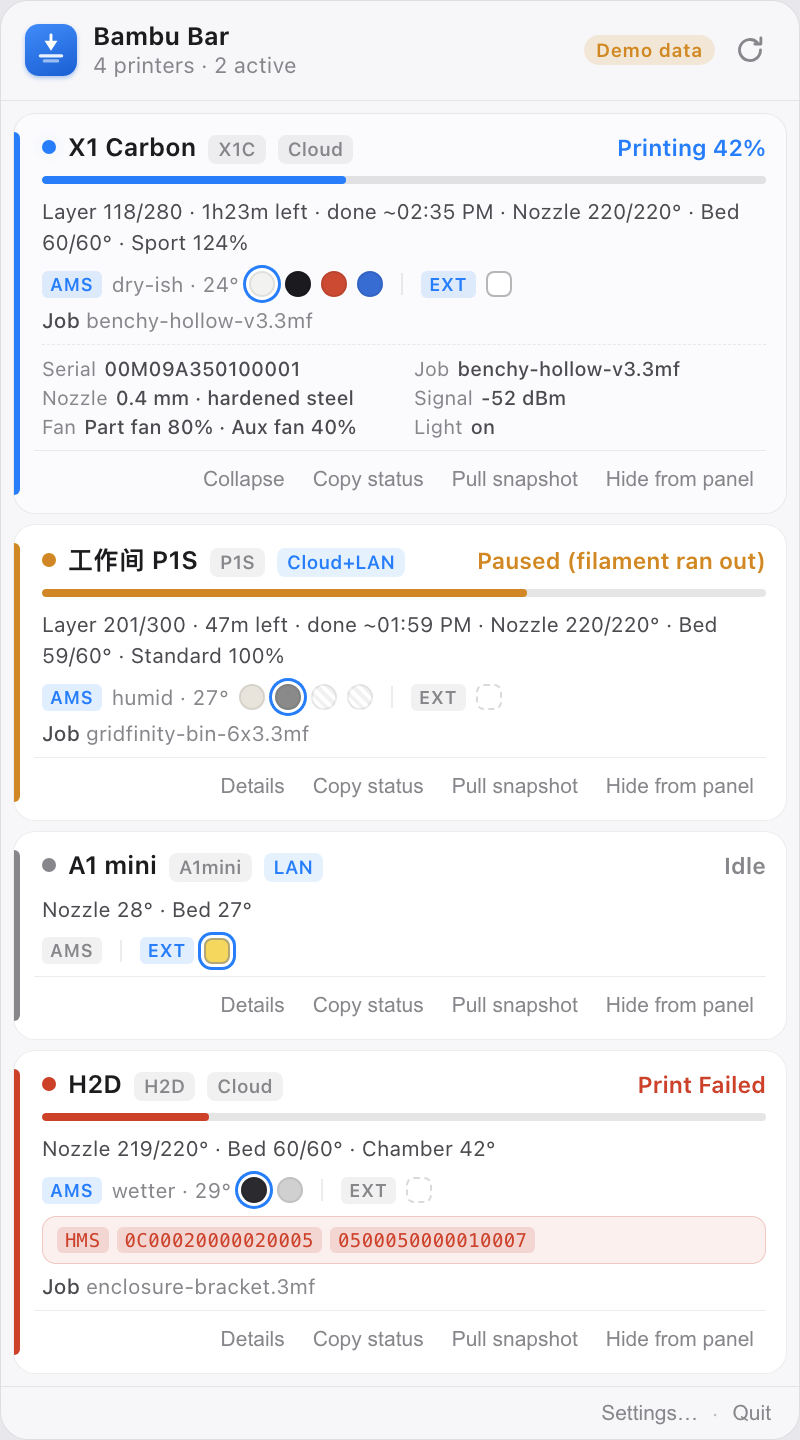
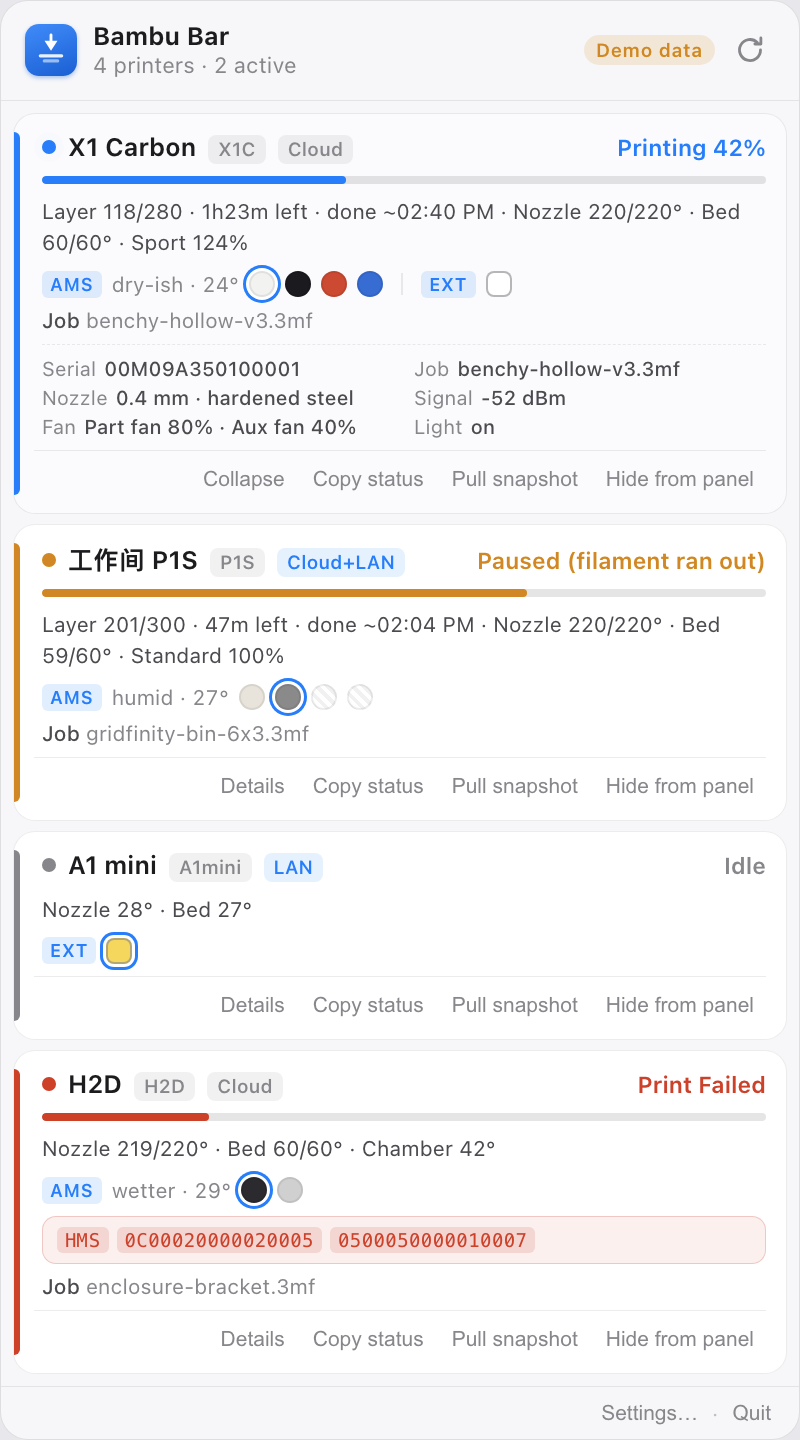
面板：没接 AMS/外置时整段不渲染，去掉灰色标签与空心占位

diff --git a/src/popover/popover.js b/src/popover/popover.js
@@ -237,55 +237,60 @@ function updateCard(v) {
   q.meta.textContent = parts.join('  ·  ');
   show(q.meta, parts.length > 0);
 
-  // AMS / 外置料盘：两个标签各管一段，有则亮、无则灰。
+  // AMS / 外置料盘：各成一段，**没接的那段整段不显示**。
   // 早前只有一个「AMS」标签，所有料盘槽都挂在它后面 —— 无 AMS 的机器（A1 mini 这类
   // 只接外挂料盘）于是被画成「AMS：一个白圈」，读起来像 AMS 里装着一卷料。
-  // 现在按来源分标签：AMS 亮起=这台的 AMS 有槽位；外置亮起=接着外挂料盘。
+  // 现在按来源分标签；而「没有」这件事本身不需要占位置：灰标签、空心占位都只会让
+  // 一行里多出与这台机器无关的元素，直接不画。
   q.ams.replaceChildren();
   const f = v.filament || {};
   const units = f.units || [];
   const amsSlots = units.reduce((n, u) => n + u.slots.length, 0);
+  const hasAms = units.length > 0;   // 有 AMS 单元就算（槽位可能全空，但模块是在的）
   const hasExt = !!f.external;
-  if (amsSlots || hasExt) {
-    const amsTag = el('span', 'ams-tag' + (amsSlots ? ' on' : ''), t('card.ams'));
-    amsTag.title = amsSlots ? t('card.slots', { n: amsSlots }) : t('card.amsOff');
-    q.ams.append(amsTag);
+  if (hasAms || hasExt) {
+    if (hasAms) {
+      const amsTag = el('span', 'ams-tag', t('card.ams'));
+      amsTag.title = amsSlots ? t('card.slots', { n: amsSlots }) : t('card.ams');
+      q.ams.append(amsTag);
 
-    // AMS 自身的温湿度紧跟在「AMS」标签后面 —— 它是 AMS 单元上报的读数，
-    // 既不是打印机腔温（那条走 chamber_temper / device.ctc，按机型门控），
-    // 也不是外置料盘的属性。放在行末（外置段之后）会被读成「外置 29°」。
-    const info = [];
-    const u0 = units[0];
-    if (u0 && u0.humidityText) info.push(t('hum.' + u0.humidityText));
-    if (u0 && u0.temp != null) info.push(`${Math.round(u0.temp)}°`);
-    if (info.length) {
-      const meta = el('span', 'ams-meta', info.join(' · '));
-      meta.title = t('card.amsEnv');
-      q.ams.append(meta);
+      // AMS 自身的温湿度紧跟在「AMS」标签后面 —— 它是 AMS 单元上报的读数，
+      // 既不是打印机腔温（那条走 chamber_temper / device.ctc，按机型门控），
+      // 也不是外置料盘的属性。放在行末会被读成「外置 29°」。
+      const info = [];
+      const u0 = units[0];
+      if (u0.humidityText) info.push(t('hum.' + u0.humidityText));
+      if (u0.temp != null) info.push(`${Math.round(u0.temp)}°`);
+      if (info.length) {
+        const meta = el('span', 'ams-meta', info.join(' · '));
+        meta.title = t('card.amsEnv');
+        q.ams.append(meta);
+      }
+
+      units.forEach((u, ui) => {
+        if (ui > 0) q.ams.append(el('span', 'ams-sep'));
+        for (const s of u.slots) {
+          const d = el('span', 'slot' + (s.color ? '' : ' unknown') + (s.active ? ' active' : ''));
+          if (s.color) d.style.setProperty('--c', s.color);
+          d.title = [s.type, s.remain >= 0 ? `${s.remain}%` : null].filter(Boolean).join(' · ') || '—';
+          q.ams.append(d);
+        }
+      });
     }
 
-    units.forEach((u, ui) => {
-      if (ui > 0) q.ams.append(el('span', 'ams-sep'));
-      for (const s of u.slots) {
-        const d = el('span', 'slot' + (s.color ? '' : ' unknown') + (s.active ? ' active' : ''));
-        if (s.color) d.style.setProperty('--c', s.color);
-        d.title = [s.type, s.remain >= 0 ? `${s.remain}%` : null].filter(Boolean).join(' · ') || '—';
-        q.ams.append(d);
-      }
-    });
-
-    q.ams.append(el('span', 'ams-sep'));
-    const extTag = el('span', 'ams-tag' + (hasExt ? ' on' : ''), t('card.ext'));
-    extTag.title = hasExt ? t('card.amsExt') : t('card.extOff');
-    q.ams.append(extTag);
-    // 没接外挂料盘时留一个空心虚框占位：标签后面空着会像是渲染漏了，
-    // 也顺带把同一行的两段对齐，四台机器横着扫的时候位置一致。
-    const extCls = 'slot ext'
-      + (hasExt ? (f.external.color ? '' : ' unknown') + (f.external.active ? ' active' : '') : ' none');
-    const d = el('span', extCls);
-    if (hasExt && f.external.color) d.style.setProperty('--c', f.external.color);
-    d.title = hasExt ? t('card.amsExt') : t('card.extOff');
-    q.ams.append(d);
+    if (hasExt) {
+      // 分隔符只在两段都在的时候画；单独一段没必要和自己分开
+      if (hasAms) q.ams.append(el('span', 'ams-sep'));
+      const extTag = el('span', 'ams-tag', t('card.ext'));
+      extTag.title = t('card.amsExt');
+      q.ams.append(extTag);
+      const d = el('span', 'slot ext'
+        + (f.external.color ? '' : ' unknown')
+        + (f.external.active ? ' active' : ''));
+      if (f.external.color) d.style.setProperty('--c', f.external.color);
+      d.title = t('card.amsExt');
+      q.ams.append(d);
+    }
   }
   show(q.ams, q.ams.childElementCount > 0);
 

diff --git a/src/popover/style.css b/src/popover/style.css
@@ -272,18 +272,14 @@ body {
   font-size: 10.5px; color: var(--muted);
   flex-wrap: wrap;
 }
-/* 模块标签（AMS / 外置）：默认灰 = 这台没接这个模块，.on 才是「有料、亮起」。
-   灰在这里不是故障色（不加红），只是「没有」；亮起用主色，和面板其它强调同一套。 */
+/* 耗材来源标签（AMS / 外置）：只在真的接了这个来源时才渲染，
+   所以一律用强调色；没有的那段整段不出现，不做灰色占位。 */
 .ams-tag {
   font-size: 9px; font-weight: 600; letter-spacing: .3px;
   padding: 1.5px 4px; border-radius: 3px;
-  background: var(--chip); color: var(--muted);
-  transition: background .12s, color .12s;
-  flex: 0 0 auto;
-}
-.ams-tag.on {
   background: color-mix(in srgb, var(--c-printing) 13%, transparent);
   color: var(--c-printing);
+  flex: 0 0 auto;
 }
 .slot {
   width: 13px; height: 13px; border-radius: 50%;
@@ -298,17 +294,11 @@ body {
 .slot.active {
   box-shadow: 0 0 0 1.5px var(--card), 0 0 0 3px var(--c-printing);
 }
-/* 外置料盘：形状（方）已足够和 AMS 的圆点区分，边框就用实线；
-   虚线只留给「没接外置」的占位，别让「白料」看起来像个空槽。 */
+/* 外置料盘：形状（方）已足够和 AMS 的圆点区分，边框用实线 ——
+   以前这里靠虚线表示「没接」，现在没接就不渲染，方框恒表示「有料」。 */
 .slot.ext {
   border-radius: 4px;
   border: 1px solid color-mix(in srgb, var(--muted) 60%, transparent);
-}
-/* 没接外挂料盘的占位：只留一段半透明虚框轮廓 */
-.slot.ext.none {
-  background: transparent;
-  border-style: dashed;
-  opacity: .5;
 }
 /* 段内分隔（AMS 多单元之间、AMS 段与外置段之间）。
    两段之间那道要更宽一点：AMS 段里既有料点又有温湿度，边界不拉开容易读成同一串。 */

diff --git a/scripts/gen-xhs.js b/scripts/gen-xhs.js
@@ -360,7 +360,7 @@ pages.push({
       <div class="anno" style="flex:1;display:flex;flex-direction:column;justify-content:center;gap:26px;padding:6px 0">
         <div class="a"><span class="dot"></span><span class="txt"><b>面板高度跟着机器数走</b><br>一台一小条，四台四张卡；超出屏幕内部滚动，页脚始终可见</span></div>
         <div class="a"><span class="dot" style="background:#f5a524"></span><span class="txt"><b>颜色按状态取</b><br>蓝=打印中 琥珀=暂停 红=失败 绿=完成 灰=空闲</span></div>
-        <div class="a"><span class="dot" style="background:#17a673"></span><span class="txt"><b>耗材是第二套颜色</b><br>AMS 与外置各带一个标签：有料亮起、没接置灰；出料槽加蓝环</span></div>
+        <div class="a"><span class="dot" style="background:#17a673"></span><span class="txt"><b>耗材是第二套颜色</b><br>AMS 与外置各带标签，没接的那段直接不出现；出料槽加蓝环</span></div>
         <div class="a"><span class="dot" style="background:#e5484d"></span><span class="txt"><b>错误给的是官方口径</b><br>HMS 码 + 失败原因长句，不是「出错了」三个字</span></div>
         <div class="a"><span class="dot" style="background:#7c4dff"></span><span class="txt"><b>菜单栏直接显示进度</b><br>有机器在打印时显示平均百分比，有失败显示「!」</span></div>
       </div>

diff --git a/src/config/ui-strings.js b/src/config/ui-strings.js
@@ -44,8 +44,6 @@ const UI = {
     'card.ext': '外置',
     'card.amsExt': '外置耗材',
     'card.amsEnv': 'AMS 内部温湿度',
-    'card.amsOff': '未接 AMS',
-    'card.extOff': '未接外置耗材',
     'card.dry': '干燥',
     'card.slots': '{n} 槽',
     'card.hms': 'HMS',
@@ -205,8 +203,6 @@ const UI = {
     'card.ext': 'EXT',
     'card.amsExt': 'External spool',
     'card.amsEnv': 'AMS internal temp / humidity',
-    'card.amsOff': 'No AMS',
-    'card.extOff': 'No external spool',
     'card.dry': 'dry',
     'card.slots': '{n} slots',
     'card.hms': 'HMS',

diff --git a/README.md b/README.md
@@ -31,7 +31,7 @@
 | 状态 | 打印中 / 准备中（含 78 种 `stg_cur` 阶段精确文案）/ 换料中 / 暂停（缺料、堵头、温控异常、首层异常、舱门…）/ 完成 / 失败（按官方 HMS 码表归到「断料 / 堵头 / 温度 / 机械 / 校准 / 打印板 / 喷嘴 / AMS」大类）/ 离线 / 登录失效 |
 | 任务 | 文件名（`subtask_name` / `gcode_file`）、进度百分比、当前层 / 总层、剩余时间、**按本机时区算出的预计完成时刻**（跨自然日标 `+1`、`+2`） |
 | 温度 | 喷嘴（当前 / 目标）、热床（当前 / 目标）；腔温**只在带腔温控制器的机型上显示**（H2C / H2D / H2D Pro / H2S / X1E / X2D），其余机型整行不显示 |
-| 耗材 | 当前耗材颜色（双喷头按 `extruder.snow` 定位主喷头）、AMS 各槽颜色 + 材料 + 余量（悬停查看）、外置耗材单列（`AMS` / `外置` 两个标签各自亮起或置灰）、AMS 内部温湿度（`ams.ams[].humidity` / `.temp`，**不是**打印机腔温） |
+| 耗材 | 当前耗材颜色（双喷头按 `extruder.snow` 定位主喷头）、AMS 各槽颜色 + 材料 + 余量（悬停查看）、外置耗材单列（`AMS` / `外置` 两个标签，没接的那段不显示）、AMS 内部温湿度（`ams.ams[].humidity` / `.temp`，**不是**打印机腔温） |
 | 机器 | 速度档（静音 / 标准 / 运动 / 狂暴 + 倍率）、WiFi 信号、喷嘴直径与材质、风扇（模型 / 辅助 / 腔体）、腔灯、舱门 |
 | 错误 | HMS 码（16 位十六进制，悬停显示官方文案）、`fail_reason` 与官方原因长句 |
 
@@ -71,16 +71,17 @@
 | 有颜色 | 实心圆点，直接设 `--c` |
 | `alpha = 00` | 斜纹灰点（`.slot.unknown`）—— 真机空槽报 `00000000`，若取前 6 位会被误当成黑料 |
 | 当前出料槽 | 外加一圈蓝色双环（`.slot.active`） |
-| 外挂料盘 | 圆点画成方形实线框（`.slot.ext`），与 AMS 槽区分；没接时只剩半透明虚框占位 |
+| 外挂料盘 | 圆点画成方形实线框（`.slot.ext`），与 AMS 槽区分 |
 
-耗材这一行分两段，各带一个标签：`AMS` 和 `外置`。标签的状态就是这台机器的配置 ——
-**有料亮起（`.ams-tag.on`，主色淡底）、没接置灰**。AMS 的温湿度（`偏干 · 24°`）紧跟在
-`AMS` 标签后面，留在 AMS 段里 —— 它是 AMS 单元自带传感器的读数（`ams.ams[].humidity` /
-`.temp`），既不是打印机腔温，也不属于外置料盘；早前画在行末，被读成「外置 24°」。
-之所以要两个标签：A1 mini 这类只挂
-外挂料盘、不带 AMS 的机器，最早的版本把料点挂在唯一的「AMS」标签后面，读起来像
-「AMS 里装着一卷白料」。机器没接外挂时标签后面留一个空心虚框（`.slot.ext.none`）占位，
-四台机器横着扫的时候两段位置一致。
+耗材这一行分两段，各带一个标签：`AMS` 和 `外置`。**没接的那段整段不渲染** ——
+标签只在真有这个来源时出现（`.ams-tag`，主色淡底），不存在「灰色占位」状态：
+A1 mini 只挂外挂料盘，就只画 `外置 ▢`；接了 AMS 没接外挂，就只画 `AMS … ● ● ● ●`。
+分隔符也只在两段都在时才画。
+
+AMS 的温湿度（`偏干 · 24°`）紧跟在 `AMS` 标签后面，留在 AMS 段里 —— 它是 AMS 单元自带
+传感器的读数（`ams.ams[].humidity` / `.temp`），既不是打印机腔温，也不属于外置料盘；
+早前画在行末，被读成「外置 24°」。之所以要两个标签：A1 mini 这类只挂外挂料盘、不带 AMS
+的机器，最早的版本把料点挂在唯一的「AMS」标签后面，读起来像「AMS 里装着一卷白料」。
 
 打印中进度条的填充色也会换成当前耗材色；但料太亮（`luma ≥ 0.82`，比如白料）时回退到状态蓝，否则白条在白底上看不见（`src/popover/popover.js:224-230`）。
 
@@ -284,7 +285,7 @@ Built on top of [YingyiDai/bambu-buddy](https://github.com/YingyiDai/bambu-buddy
 
 **Colours** are keyed to *status*, not to the printer: a printer changes state and the whole card changes colour, while two printers in the same state share it. Six semantic colours, one set for light and one for dark (`src/popover/style.css:22-26` / `46-50`): printing `#0a7cff` / `#4c9dff`, paused `#d98300` / `#ffb340`, failed `#d92d20` / `#ff6369`, finished `#1f9d4d` / `#4ac26b`, idle `#86868b` / `#9b9ba2`, offline `#b4b4b9` / `#6a6a72`. `statusClassFromStateKey()` (`src/core/live-telemetry.js:16-27`) folds all 78 `stg_cur` stages into those six; its `default` branch means every recognised-but-unlisted stage counts as printing, so preparing and changing filament get no hue of their own — keeping the palette at six hues is what lets an outlier jump out while scanning. The chosen colour lands in the CSS variable `--st`, shared by four places: the 3px bar down the left of the card, the dot beside the title (pulsing while printing), the status text on the right, and the progress-bar fill.
 
-Filament swatches are a second, independent colour source, reported by the printer as `tray_color` in `RRGGBBAA` rather than defined by the app. `alpha = 00` means "no colour" and renders as a hatched grey dot — real printers report `00000000` for an empty slot, so reading only the first six digits would show it as black filament. The row is split into an `AMS` segment and an `EXT` (external spool) segment, each with its own label: lit in the accent colour when that source has filament, grey when the machine does not have it. Two labels rather than one because an A1 mini with only an external spool used to render that spool behind the single `AMS` label, which read as "a roll loaded in the AMS". The currently extruding slot gets a blue double ring, the external spool is drawn as a square with a solid outline (a faint dashed outline when nothing is connected, so the two segments stay aligned across cards and white filament never looks like an empty slot), and while printing the progress bar takes the filament colour too, falling back to the status blue when the material is too bright to read against the track (`luma ≥ 0.82`, e.g. white).
+Filament swatches are a second, independent colour source, reported by the printer as `tray_color` in `RRGGBBAA` rather than defined by the app. `alpha = 00` means "no colour" and renders as a hatched grey dot — real printers report `00000000` for an empty slot, so reading only the first six digits would show it as black filament. The row is split into an `AMS` segment and an `EXT` (external spool) segment, each with its own label; a segment the machine does not have is simply not rendered (no greyed-out placeholder, and the divider only appears when both segments exist). Two labels rather than one because an A1 mini with only an external spool used to render that spool behind the single `AMS` label, which read as "a roll loaded in the AMS". The currently extruding slot gets a blue double ring, the external spool is drawn as a square with a solid outline (shape alone keeps it distinct from the round AMS slots, and the solid outline keeps white filament from looking like an empty slot), and while printing the progress bar takes the filament colour too, falling back to the status blue when the material is too bright to read against the track (`luma ≥ 0.82`, e.g. white).
 
 **Appearance** lives in Settings → General (follow system / light / dark) and applies instantly without a restart: the setting only writes `nativeTheme.themeSource`, and both windows take their colours from CSS `prefers-color-scheme`. The panel header keeps a single refresh button — the icon that used to sit there read as a brightness toggle while actually opening settings, so the only settings entry is now the footer link.
 
